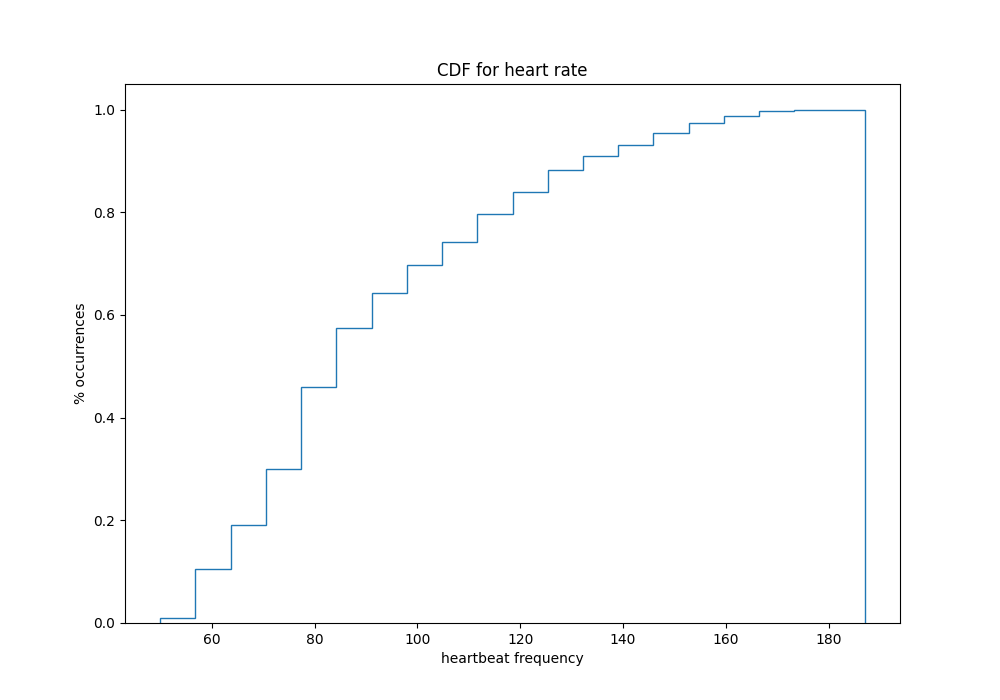
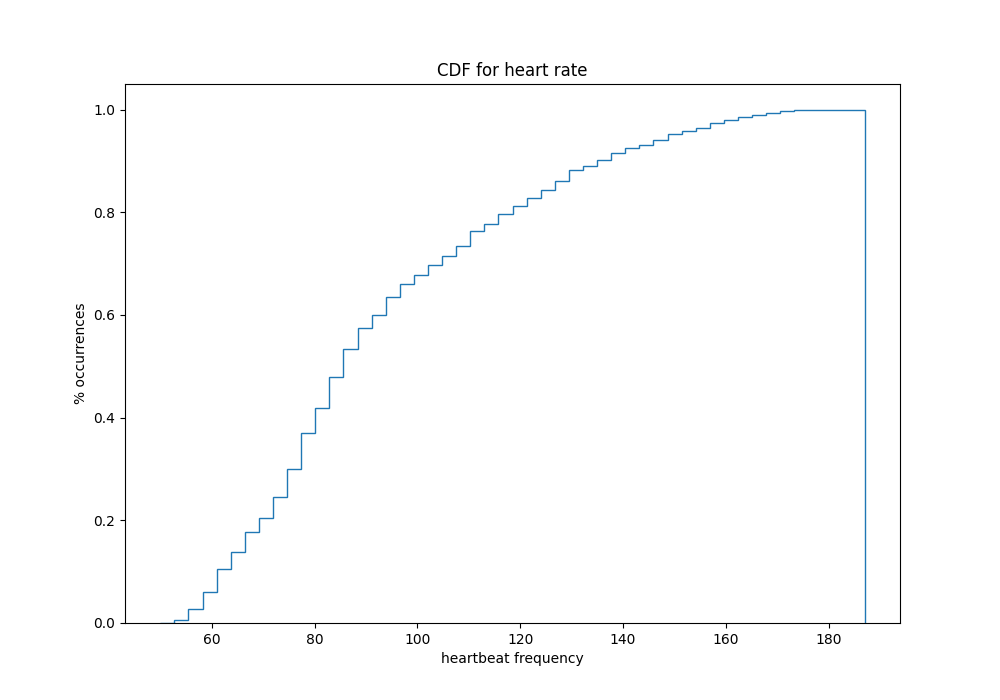
update

diff --git a/main.py b/main.py
@@ -34,7 +34,7 @@ def get_CDF():
     
     fig, ax = plt.subplots(figsize =(10, 7)) 
     #ax.hist(data, bins=20, cumulative=True, label='CDF', alpha=0.55, color='purple')
-    ax.hist(data, bins=20, density=True, histtype='step', cumulative=True)
+    ax.hist(data, bins=50, density=True, histtype='step', cumulative=True)
 
     #adding extra features     
     plt.xlabel("heartbeat frequency") 
